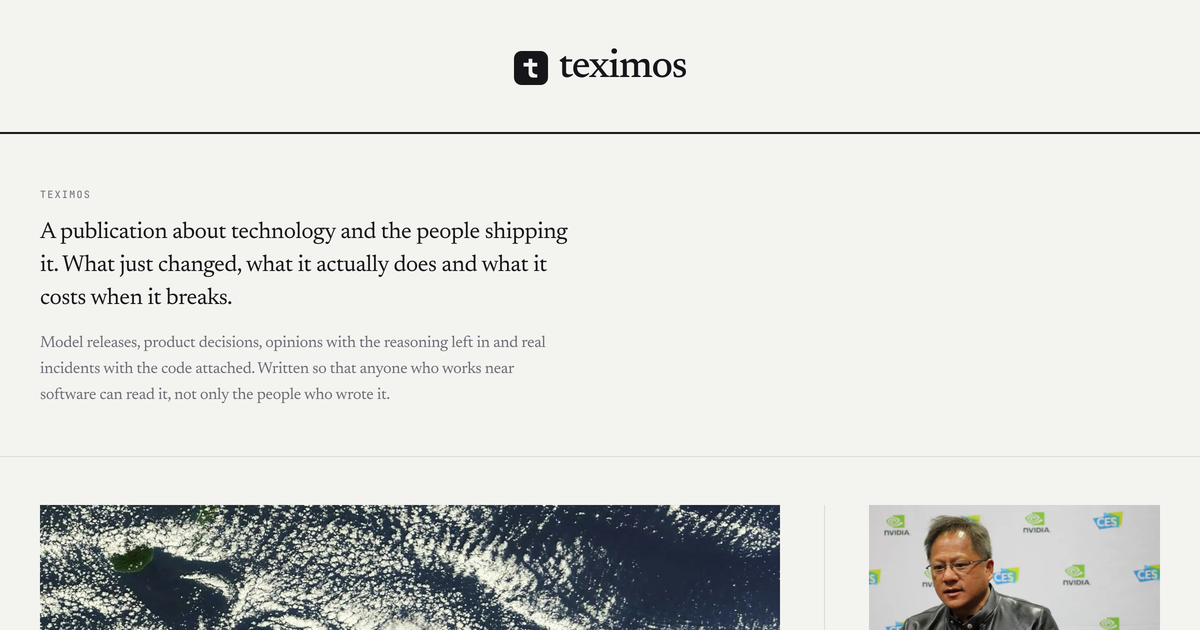
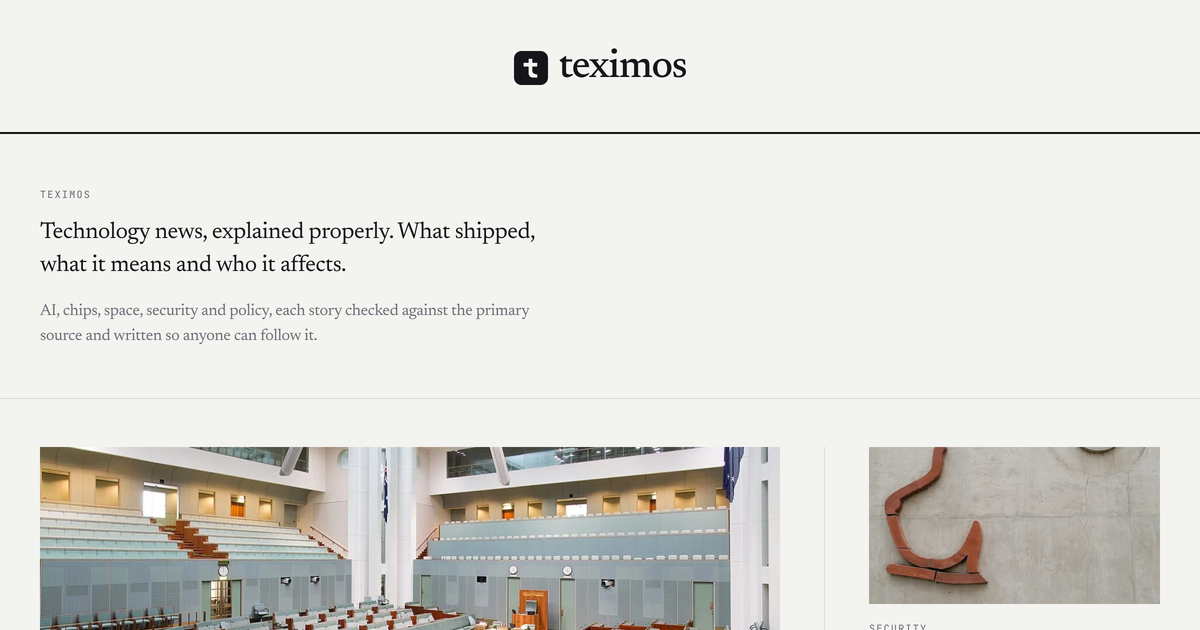
Four new pieces, and the site now reads as tech news
Adds the OpenAI Australia breach, the Perseverance driving record, the
farthest fast radio burst host, and the PHP runtime flaws. Each is written
from the primary source (NASA, CISA, TechCrunch) with the image credited.

Rewrites the statement, description and About copy, which still described
the site as a post-mortem diary.

Changed region(s): [[0.0308, 0.6937, 0.6783, 1.0], [0.0308, 0.3317, 0.4933, 0.6333], [0.7092, 0.6937, 0.9867, 1.0]]

diff --git a/src/consts.ts b/src/consts.ts
@@ -1,19 +1,15 @@
 export const SITE_TITLE = "Teximos";
 export const SITE_DESCRIPTION =
-  "A publication about technology: what just shipped, what it actually does and what it costs when it breaks.";
+  "Technology news, explained properly. What shipped, what it means and who it affects.";
 export const SITE_URL = "https://teximos.com";
 
 // The line under the wordmark on the index. States what the publication is
 // about rather than who writes it.
-//
-// Deliberately wider than the first version, which described only the
-// production incident write-ups and read as a bug diary. The remit is the
-// industry: releases, product decisions, opinion and the engineering.
 export const SITE_STATEMENT =
-  "A publication about technology and the people shipping it. What just changed, what it actually does and what it costs when it breaks.";
+  "Technology news, explained properly. What shipped, what it means and who it affects.";
 
 export const SITE_BLURB =
-  "Model releases, product decisions, opinions with the reasoning left in and real incidents with the code attached. Written so that anyone who works near software can read it, not only the people who wrote it.";
+  "AI, chips, space, security and policy, each story checked against the primary source and written so anyone can follow it.";
 
 // Email newsletter. Buttondown's embed is a plain form POST, so signup adds
 // real subscribers with zero JavaScript. Swap `user` for the real account and
